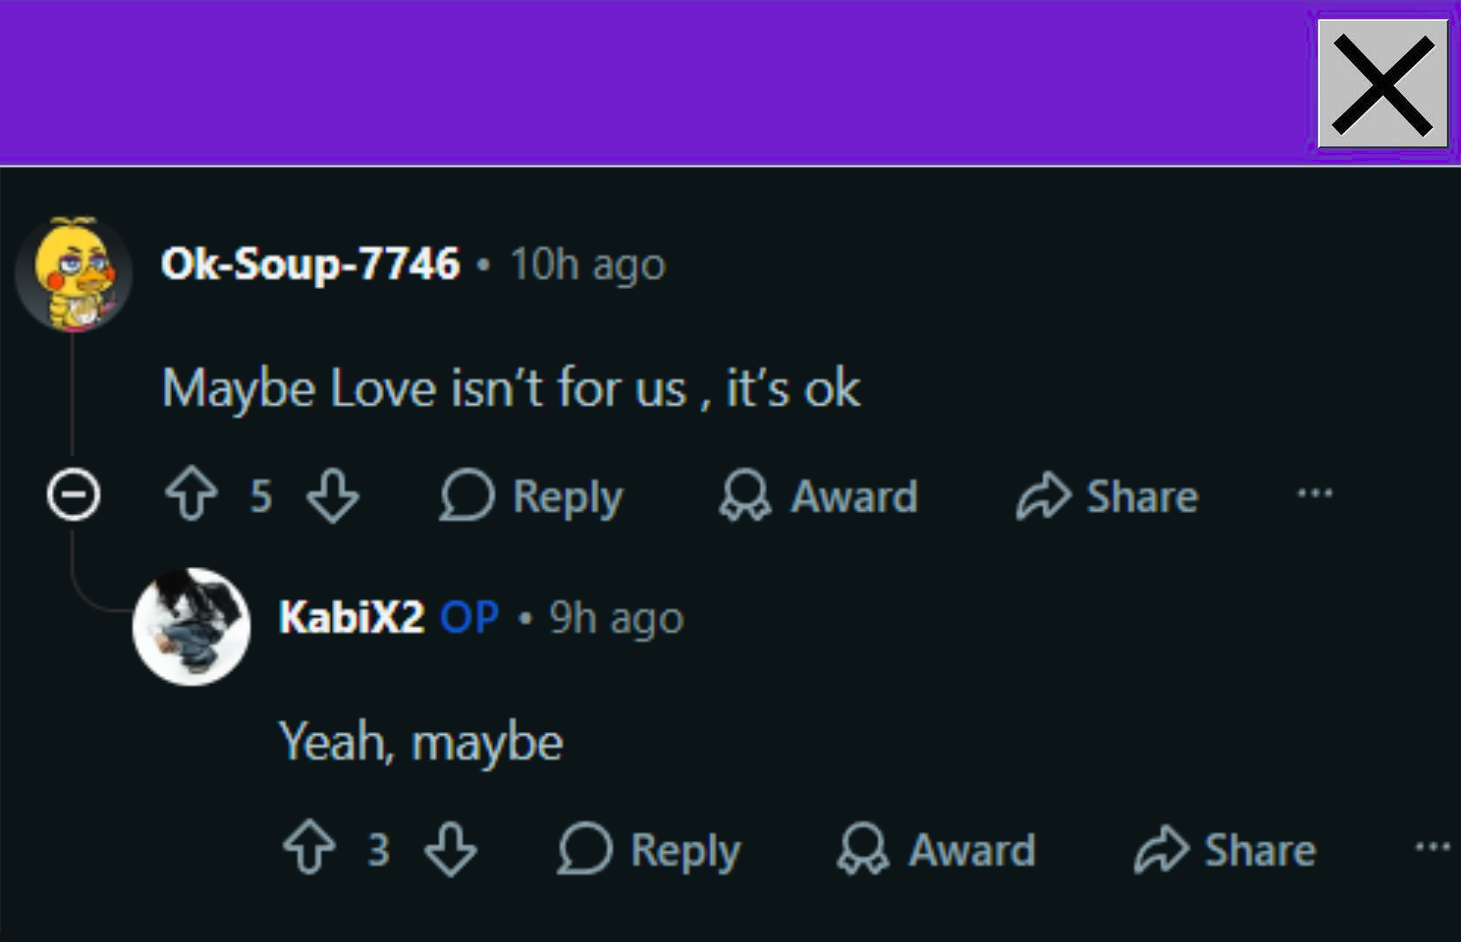
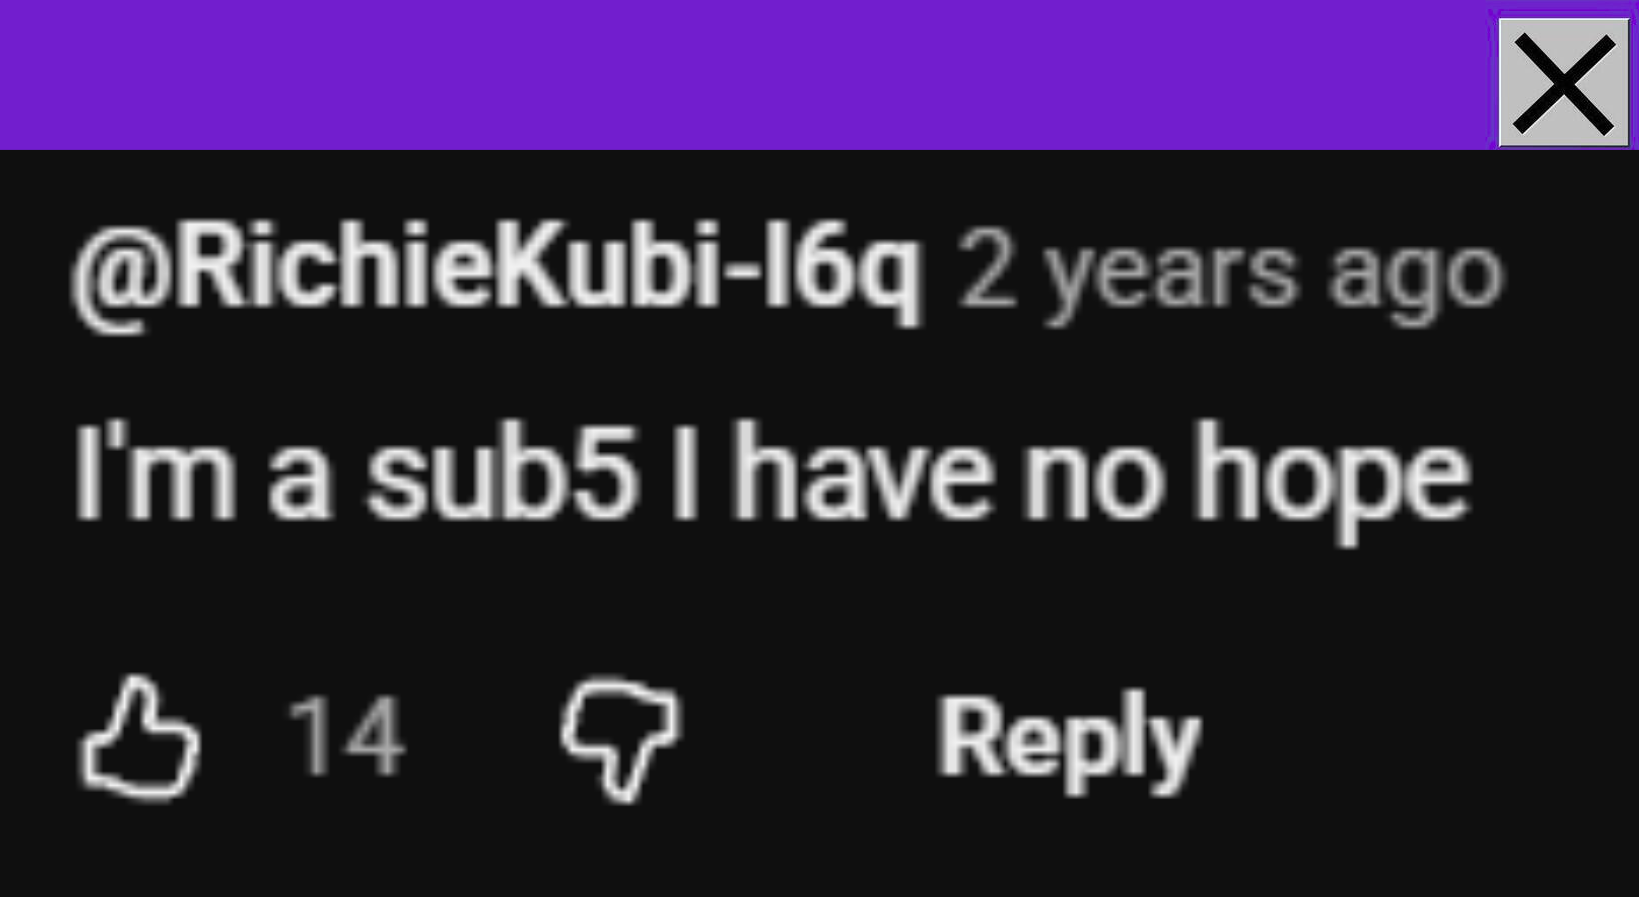
added more pop-ups

diff --git a/POVGAME.html b/POVGAME.html
@@ -79,7 +79,7 @@
       position: absolute;
       max-width: 300px;
       max-height: 200px;
-      transform: scale(1.5);
+      transform: scale(2);
       transform-origin: top left;
       object-fit: contain;
       border: 2px solid #fff;
@@ -228,15 +228,19 @@
     'SchoolPics/School3.png': 'PopUp/6.png',
     'SchoolPics/School5.png': 'PopUp/7.png',
     'SchoolPics/School7.png': 'PopUp/8.png',
-    'schoolPics/School9.png': 'PopUp/9.png',
+    'SchoolPics/School8.png': 'PopUp/20.png',
+    'SchoolPics/School9.png': 'PopUp/9.png',
     'BusPictures/Bus3.png': 'PopUp/10.png',
+    'BusPictures/Bus5.png': 'PopUp/17.png',
     'BusPictures/Bus7.png': 'PopUp/11.png',
+    'BusPictures/Bus9.png': 'PopUp/18.png',
     'BusPictures/Bus12.png': 'PopUp/12.png',
     'BusPictures/Bus15.png': 'PopUp/13.png',
     'BusPictures/Bus16.png': 'PopUp/14.png',
     'BusPictures/Bus17.png': 'PopUp/15.png',
     'BusPictures/Bus18.png': 'PopUp/16.png',
-    'BusPictures/Bus20.png': 'PopUp/17.png',
+    'BusPictures/Bus19.png': 'PopUp/19.png',
+    'BusPictures/Bus20.png': 'PopUp/21.png',
   };
 
   const popupImages = [
@@ -257,6 +261,10 @@
     'PopUp/15.png',
     'PopUp/16.png',
     'PopUp/17.png',
+    'PopUp/18.png',
+    'PopUp/19.png',
+    'PopUp/20.png',
+    'PopUp/21.png',
   ];
 
   let currentImageIndex = 0;
@@ -311,7 +319,7 @@
     }
 
     if (currentSlide === 'BusPictures/Bus20.png') {
-      removeAllPopupsExcept('PopUp/17.png');
+      removeAllPopupsExcept('PopUp/21.png');
     }
 
     if (currentSlide === 'End_1.png') {
@@ -355,8 +363,8 @@
     const popupImg = document.createElement('img');
     popupImg.src = src;
     
-    const effectiveWidth = 300 * 1.5;
-    const effectiveHeight = 200 * 1.5;
+    const effectiveWidth = 300 * 2;
+    const effectiveHeight = 200 * 2;
     const maxX = Math.max(0, window.innerWidth - effectiveWidth - 20);
     const maxY = Math.max(0, window.innerHeight - effectiveHeight - 20);
     const randomX = Math.random() * maxX;
